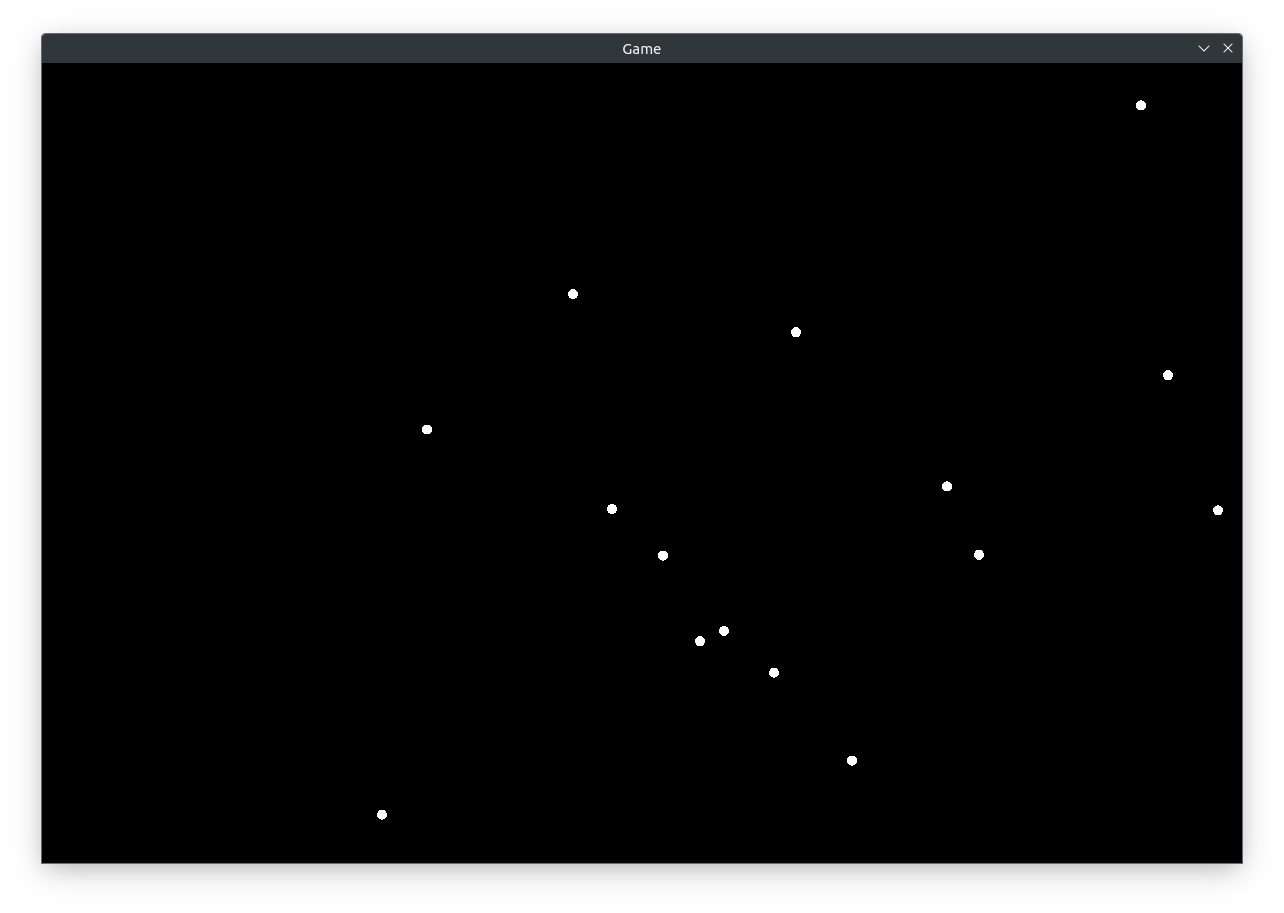
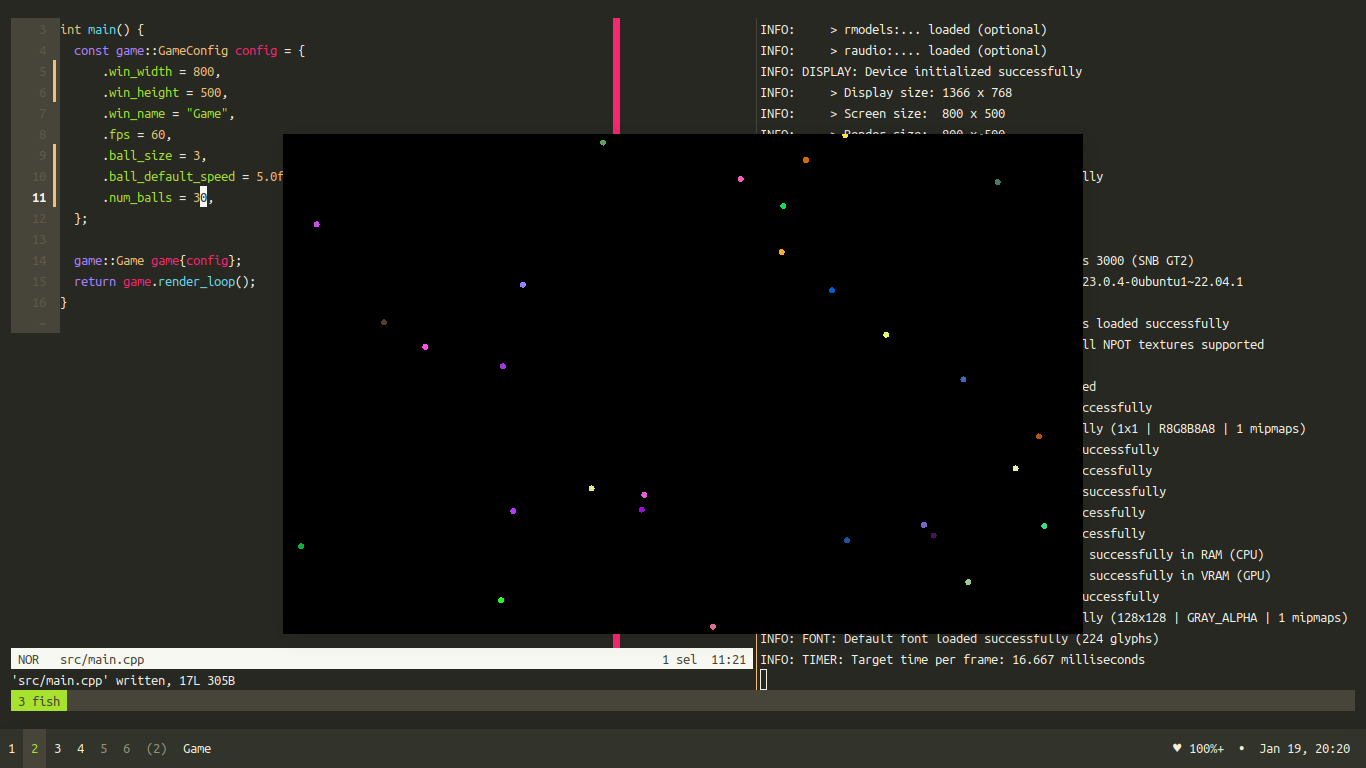
spawn balls with random colors

diff --git a/src/ball.cpp b/src/ball.cpp
@@ -11,6 +11,14 @@ game::Ball::Ball(const ScreenBounds &b, float speed) {
   this->c = random_int(-1 * b.y_max, b.y_max);
   this->direction =
       (random_int(1, 2) % 2 == 0) ? Direction::Right : Direction::Left;
+
+  /** spawn with a random color */
+  this->color = Color {
+    .r = random_char(),
+    .g = random_char(),
+    .b = random_char(),
+    .a = 255,
+  };
 }
 
 void game::Ball::update_trajectory() {

diff --git a/src/main.cpp b/src/main.cpp
@@ -2,13 +2,13 @@
 
 int main() {
   const game::GameConfig config = {
-      .win_width = 1200,
-      .win_height = 800,
+      .win_width = 800,
+      .win_height = 500,
       .win_name = "Game",
       .fps = 60,
-      .ball_size = 5,
-      .ball_default_speed = 8.0f,
-      .num_balls = 20,
+      .ball_size = 3,
+      .ball_default_speed = 5.0f,
+      .num_balls = 30,
   };
 
   game::Game game{config};

diff --git a/src/game.hpp b/src/game.hpp
@@ -28,11 +28,13 @@ struct ScreenBounds {
 ScreenBounds get_screen_bounds(const GameConfig &c);
 int random_int(int min, int max);
 float random_float(float min, float max);
+unsigned char random_char();
 
 class Ball {
 public:
   Vector2 pos;
   float speed;
+  Color color;
   float m, c;
   Direction direction;
   ScreenBounds bounds;

diff --git a/src/game.cpp b/src/game.cpp
@@ -24,7 +24,7 @@ int game::Game::render_loop() {
 
     for (Ball &ball : state.balls) {
       ball.update_trajectory();
-      DrawCircleV(ball.position(), config.ball_size, WHITE);
+      DrawCircleV(ball.position(), config.ball_size, ball.color);
     }
 
     EndDrawing();

diff --git a/src/random.cpp b/src/random.cpp
@@ -9,3 +9,9 @@ float game::random_float(float min, float max) {
   float value = min + (max - min) * (float)rand() / (float)RAND_MAX;
   return value;
 }
+
+unsigned char game::random_char() {
+  int value = std::rand();
+  unsigned char v = value % 256;
+  return v;
+}
